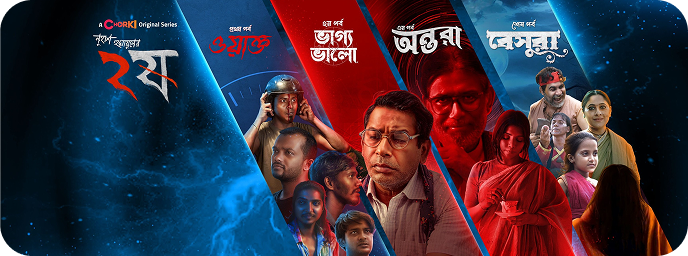
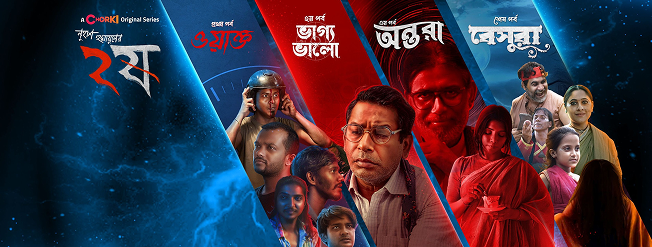
fix entertain pixel alignment

diff --git a/lib/src/features/home_screen/widgets/entertainment_widget.dart b/lib/src/features/home_screen/widgets/entertainment_widget.dart
@@ -29,7 +29,7 @@ class EntertainmentWidget extends StatelessWidget {
           height: AppDimens.height128,
           width: double.infinity,
           borderRadius: AppDimens.radius16,
-          fit: BoxFit.cover,
+          fit: BoxFit.fill,
           showBorder: false,
         ),
       ],
